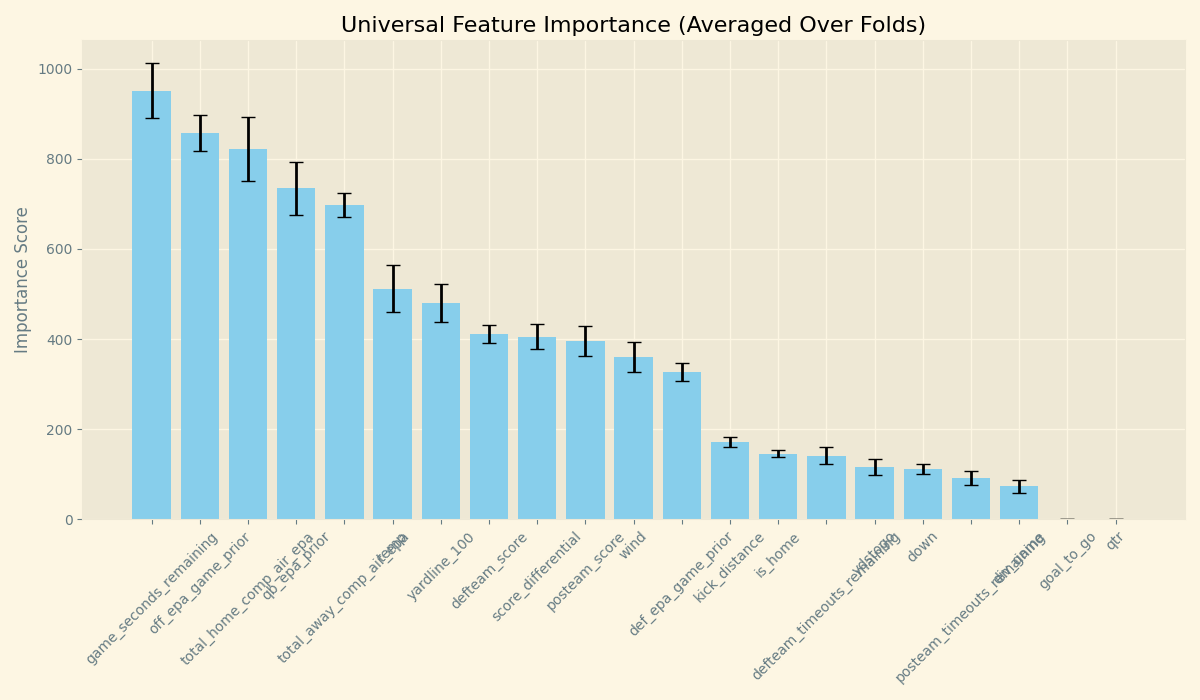
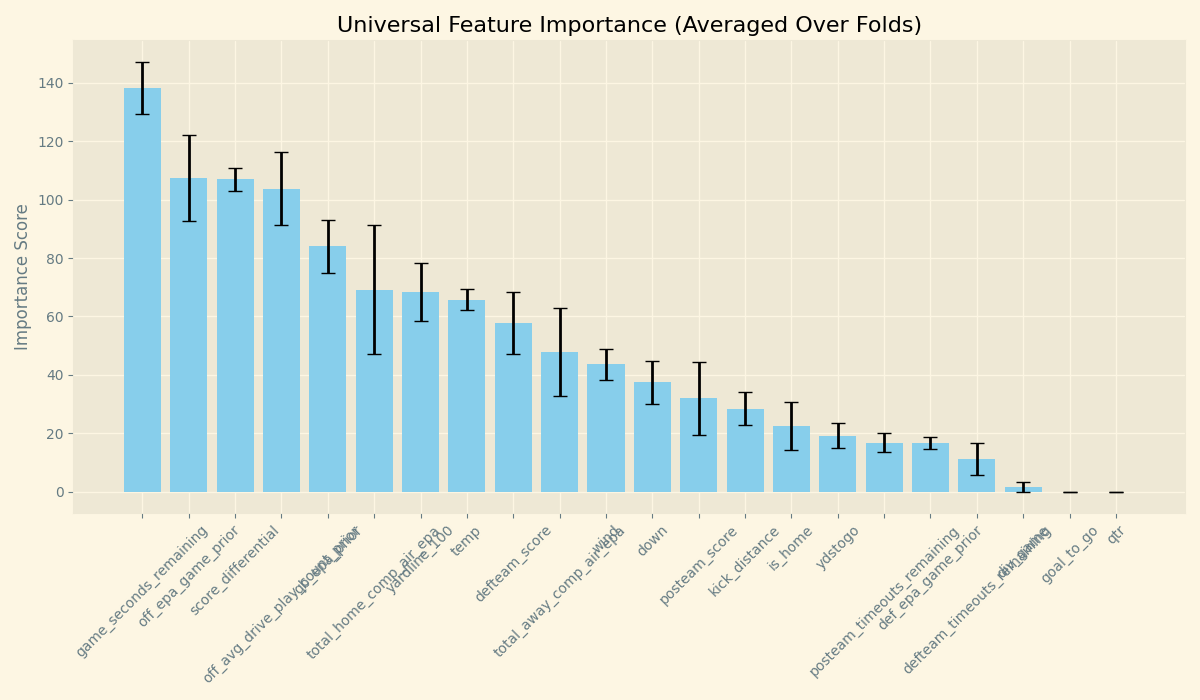
fixed overfitting a little

diff --git a/notebooks/data_exploration.py b/notebooks/data_exploration.py
@@ -30,7 +30,7 @@ def load_comeback_data(years=list(range(2015,2025))):
         'yardline_100', 'down', 'ydstogo', 'temp', 'goal_to_go',
         'posteam_timeouts_remaining', 'defteam_timeouts_remaining',
          'epa', 'wind', 'kick_distance', 'qb_epa', 'posteam_score', 'defteam_score', 'total_home_comp_air_epa', 'total_away_comp_air_epa',
-         'div_game', 'result'
+         'div_game', 'result', 'season', 'drive', 'drive_play_count'
     ]
 
     def _download_and_cache_full_pbp():
@@ -65,6 +65,7 @@ def load_comeback_data(years=list(range(2015,2025))):
     pbp = add_epa(pbp)
     pbp = add_home_team(pbp)
     pbp = add_qb_epa(pbp)
+    pbp = add_avg_drive_play_count(pbp)
 
     df = pbp[pbp['qtr'] >= 4].copy()
 
@@ -84,13 +85,15 @@ def load_comeback_data(years=list(range(2015,2025))):
 
     last_drive = comeback_df.groupby(['game_id', 'posteam'])['drive_id'].transform('max')
     comeback_df = comeback_df[comeback_df['drive_id'] == last_drive]
-
+   
     comeback_df = (
         comeback_df.sort_values(['game_id', 'posteam', 'game_seconds_remaining'], ascending=[True, True, False])
         .groupby(['game_id', 'posteam'], as_index=False)
         .head(1)
         .drop(columns=['drive_id'])
     )
+    print("after head(1) per team:", comeback_df.shape)
+    print(comeback_df.groupby("game_id").size().value_counts().sort_index().head(10))
 
     return comeback_df
 
@@ -133,6 +136,27 @@ def add_home_team(df):
     df['is_home'] = (df['posteam'] == df['home_team']).astype(int)
     return df
 
+def add_avg_drive_play_count(df):
+    drive_df = (
+        df.sort_values(['game_id', 'posteam', 'drive', 'game_seconds_remaining'], ascending=[True, True, True, False])
+        .drop_duplicates(subset=['game_id', 'posteam', 'drive'])[['game_id', 'posteam', 'drive', 'drive_play_count']]
+    )
+    drive_df = drive_df.sort_values(['game_id', 'posteam', 'drive']).copy()
+
+    grp = drive_df.groupby(['game_id', 'posteam'])['drive_play_count']
+    cumsum = grp.cumsum()
+    count_prior = grp.cumcount()
+
+    drive_df['off_avg_drive_play_count_prior'] = np.where(count_prior > 0,(cumsum - drive_df['drive_play_count']) / count_prior, 0.0)
+    df = df.merge(
+    drive_df[['game_id', 'posteam', 'drive', 'off_avg_drive_play_count_prior']],
+    on=['game_id', 'posteam', 'drive'],
+    how='left'
+)
+
+    df['off_avg_drive_play_count_prior'] = df['off_avg_drive_play_count_prior'].fillna(0.0)
+    return df
+
 def plot_win_probability_groups(df):
     win_rate_groups = df.groupby('score_differential')['won_game'].mean().reset_index().rename(columns = {'won_game': 'win_percent'})
     x = win_rate_groups['score_differential']
@@ -147,29 +171,26 @@ def plot_win_probability_groups(df):
     plt.savefig("results/plots/01_win_rate_by_points_down.png")
 
 def prep_train_data(df):
-    unique_games = df['game_id'].unique()
-    train_games, temp_games = train_test_split(unique_games, test_size=0.4, random_state=42)
-    val_games, test_games = train_test_split(temp_games, test_size = 0.5, random_state= 42)
-    
-    train_df = df[df['game_id'].isin(train_games)].copy()
-    test_df = df[df['game_id'].isin(test_games)].copy()
-    val_df   = df[df["game_id"].isin(val_games)].copy()
-    train_games = train_df['game_id'].copy()
+    train_df = df[df['season'] <= 2021].copy()
+    val_df   = df[(df["season"] >= 2022) & (df["season"] <= 2023)].copy()
+    test_df  = df[df["season"] == 2024].copy()
+
+    train_groups = train_df['game_id'].copy()
 
     string_columns = train_df.select_dtypes(include=['object']).columns
-    train_df = train_df.drop(columns = string_columns)
-    test_df = test_df.drop(columns = string_columns)
-    val_df = val_df.drop(columns = string_columns)
-    X_train = train_df.drop(columns = ['won_game', 'result', 'epa', 'qb_epa']).fillna(0)
-    y_train = train_df['won_game']
-    X_test = test_df.drop(columns = ['won_game', 'result', 'epa', 'qb_epa']).fillna(0)
-    y_test = test_df['won_game']
-    X_val = val_df.drop(columns = ['won_game', 'result', 'epa', 'qb_epa']).fillna(0)
-    y_val = val_df["won_game"]
+    train_df = train_df.drop(columns=string_columns)
+    test_df  = test_df.drop(columns=string_columns)
+    val_df   = val_df.drop(columns=string_columns)
 
-    
-    
-    return X_train, X_test, y_train, y_test, X_val, y_val, train_games
+    X_train = train_df.drop(columns=['won_game', 'result', 'epa', 'qb_epa','season', 'drive', 'drive_play_count']).fillna(0)
+    y_train = train_df['won_game']
+    X_test  = test_df.drop(columns=['won_game', 'result', 'epa', 'qb_epa','season', 'drive', 'drive_play_count']).fillna(0)
+    y_test  = test_df['won_game']
+    X_val   = val_df.drop(columns=['won_game', 'result', 'epa', 'qb_epa','season', 'drive', 'drive_play_count']).fillna(0)
+    y_val   = val_df['won_game']
+
+    return X_train, X_test, y_train, y_test, X_val, y_val, train_groups
+
 
 def train_rf_model(X_train, X_test, y_train, y_test, X_val, y_val, train_groups):
     rf_base = RandomForestClassifier(
@@ -234,19 +255,23 @@ def train_lightgbm_model(X_train, X_test, y_train, y_test, X_val, y_val, train_g
 
     lightgbm_base = LGBMClassifier(objective = 'binary', random_state=42, verbose = -1)
     rs_params={
-        "n_estimators": [100, 200, 300, 500],   
-        "learning_rate": [0.01, 0.05, 0.1, 0.2],
-        "num_leaves": [15, 31, 63],
-        "max_depth": [-1, 4, 6, 8],
-        "subsample": [0.6, 0.8, 1.0],           
-        "colsample_bytree": [0.6, 0.8, 1.0],   
-        "min_child_samples": [10, 20, 40]
+        "n_estimators": [80, 120, 180, 240],
+        "learning_rate": [0.01, 0.03, 0.05, 0.08],
+        "num_leaves": [7, 15, 31],
+        "max_depth": [3, 4, 5, 6],
+        "min_child_samples": [30, 50, 80, 120],
+        "subsample": [0.7, 0.85, 1.0],
+        "colsample_bytree": [0.6, 0.8, 1.0],
+        "reg_alpha": [0.0, 0.5, 1.0, 2.0, 5.0],
+        "reg_lambda": [1.0, 2.0, 5.0, 10.0]
+
+
     }
     gkf = GroupKFold(n_splits=5)
     search = RandomizedSearchCV(
         estimator = lightgbm_base,
         param_distributions= rs_params,
-        n_iter = 40,
+        n_iter = 25,
         scoring = 'f1',
         cv = gkf,
         random_state=42,
@@ -268,12 +293,13 @@ def train_lightgbm_model(X_train, X_test, y_train, y_test, X_val, y_val, train_g
     best_r = -1
     best_p = 0
     best_f1 = 0
+    precision_floor = 0.45
     for t in thresholds:
         preds = (val_probs >= t).astype(int)
         r = recall_score(y_val, preds)
         p = precision_score(y_val, preds, zero_division = 0)
         f = f1_score(y_val, preds)
-        if f>best_f1:
+        if (f>best_f1) & (p>precision_floor):
             best_r = r
             best_p = p
             best_t = t
@@ -345,3 +371,17 @@ calibrated_lgbm, best_t = train_lightgbm_model(X_train, X_test, y_train, y_test,
 
 plot_confusion_matrix(calibrated_lgbm, X_test, y_test, best_t)
 plot_smart_importance(calibrated_lgbm, X_train)
+
+train_probs = calibrated_lgbm.predict_proba(X_train)[:, 1]
+train_preds = (train_probs >= best_t).astype(int)
+
+print(classification_report(y_train, train_preds))
+
+val_probs = calibrated_lgbm.predict_proba(X_val)[:,1]
+val_preds = (val_probs>=best_t).astype(int)
+
+print(classification_report(y_val, val_preds))
+
+
+
+
